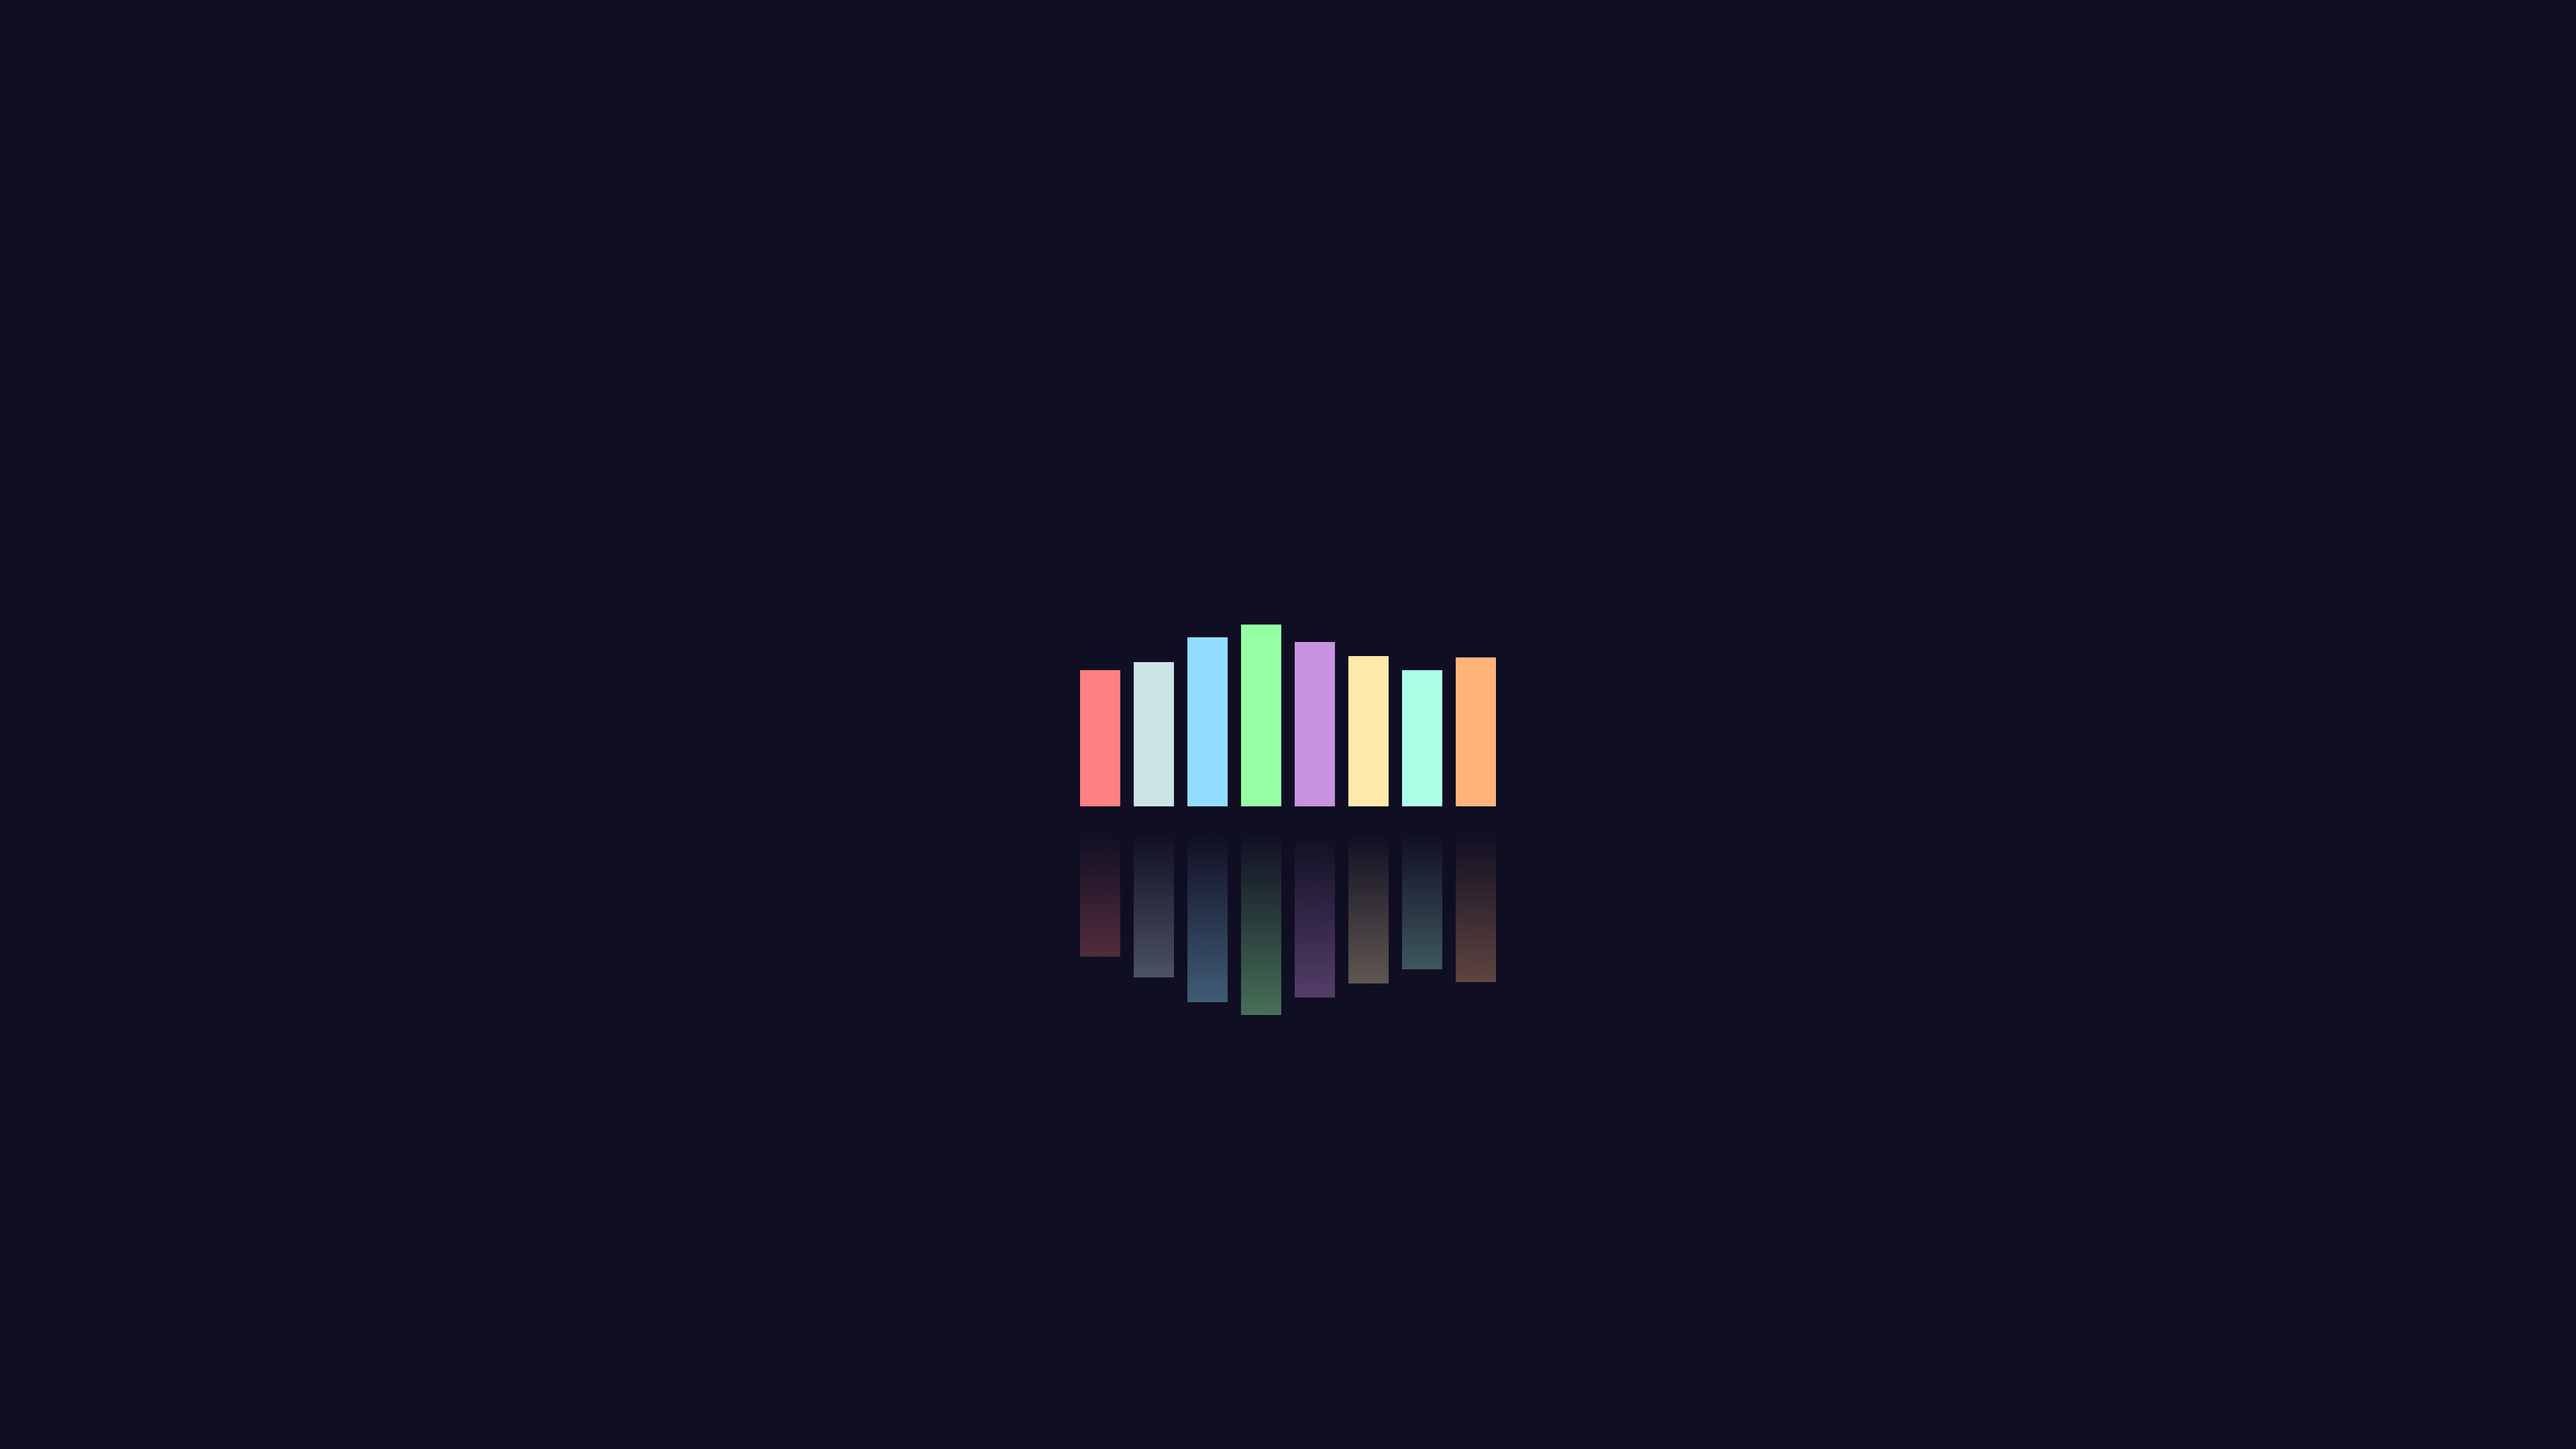
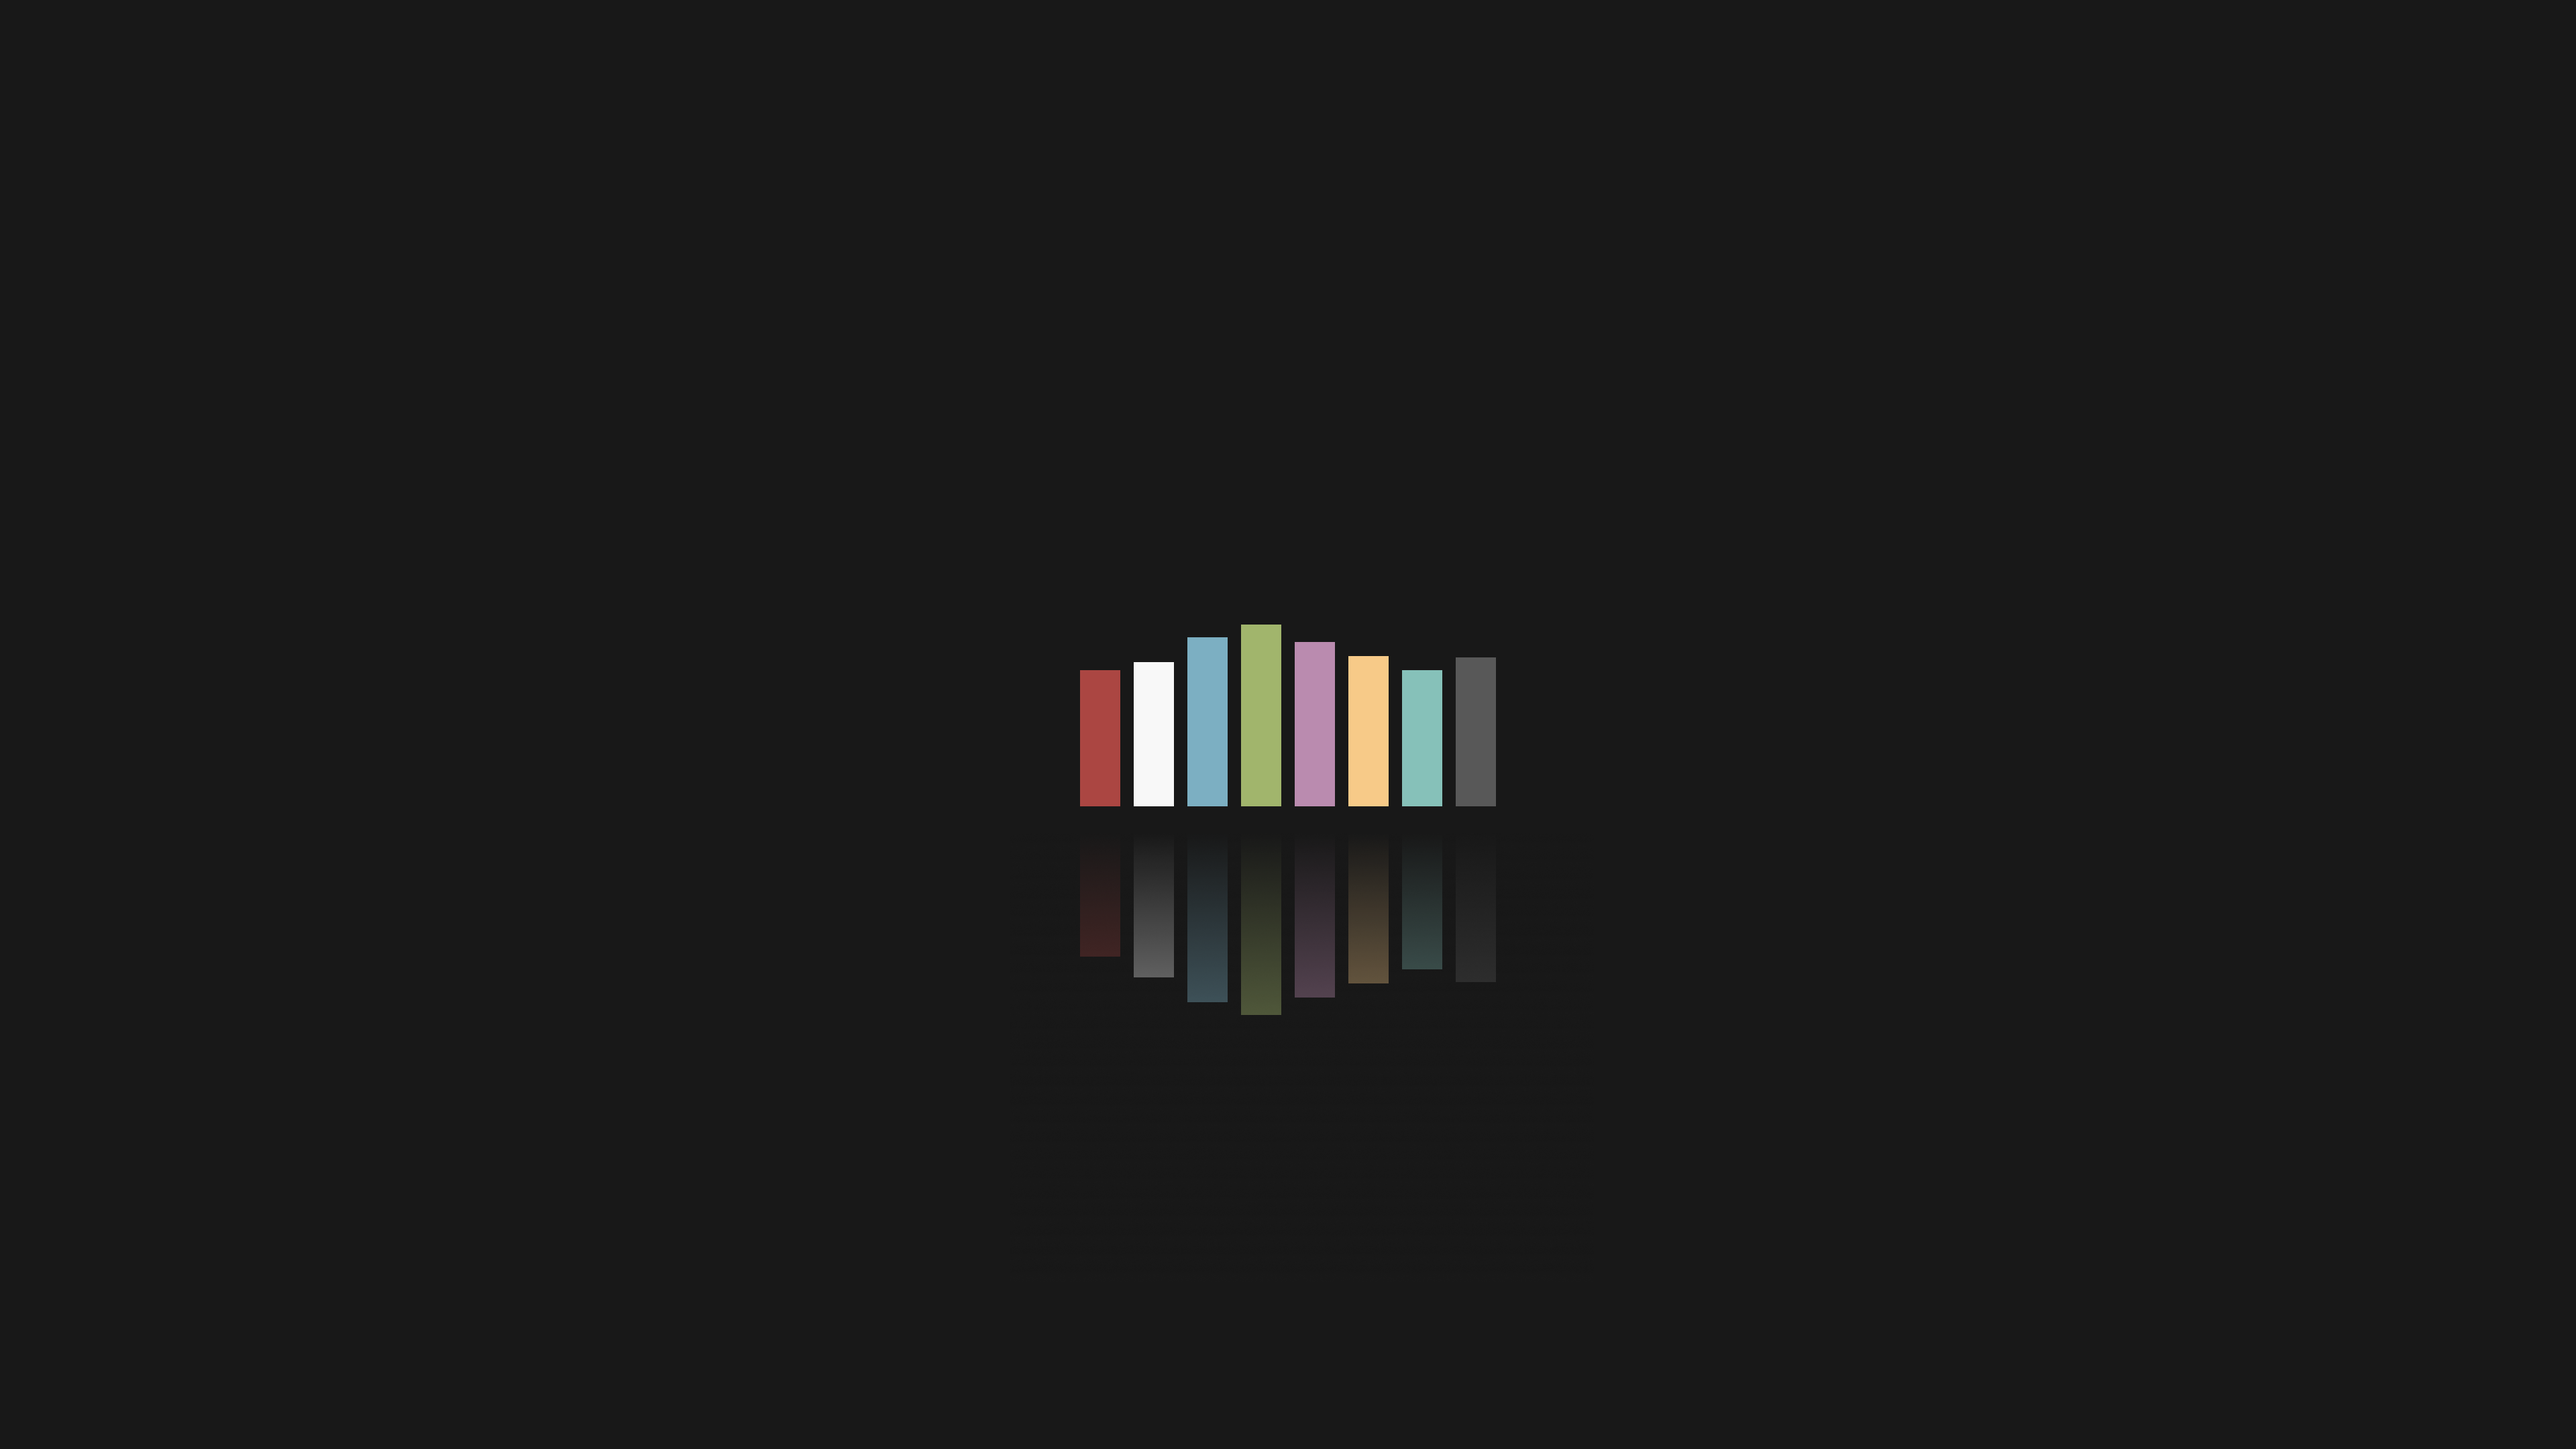
feat: refactor to base16 color, update font, add gtk theme

Changed region(s): [[0.4062, 0.4343, 0.5938, 0.5583], [0.4375, 0.6514, 0.5, 0.7134], [0.5625, 0.6204, 0.5938, 0.6824]]

diff --git a/config/gtk/theme/gtk2.css b/config/gtk/theme/gtk2.css
@@ -1,0 +1,81 @@
+# Default scheme
+# by Chris Kempson (http://chriskempson.com)
+#
+# GTK 3.0 template 
+# by Jonn Mostovoy - https://github.com/manpages
+#
+# Generated
+#  by base16-builder - https://github.com/base16-builder/base16-builder
+
+style "default"
+{
+  engine "hcengine" {
+    edge_thickness = 2
+  }
+
+  xthickness = 2
+  ythickness = 2
+
+  EelEditableLabel::cursor_aspect_ratio = 0.1
+  EelEditableLabel::cursor_color    = "#7cafc2"
+
+  GtkEntry::cursor_color    = "#7cafc2"
+  GtkEntry::cursor_aspect_ratio = 0.1
+
+  GtkHSV::focus-line-pattern = "\0"
+
+  GtkRange::stepper-size = 20
+
+  GtkTextView::cursor_aspect_ratio = 0.1
+  GtkTextView::cursor_color    = "#7cafc2"
+
+  GtkTreeView::expander-size = 16
+
+  GtkWidget::focus-line-pattern = "\4\2"
+  GtkWidget::focus-line-width = 2
+  GtkWidget::focus-padding = 0
+  GtkWidget::interior_focus = 1
+  GtkWidget::link-color = "#7cafc2"
+  GtkWidget::visited-link-color = "#ba8baf"
+
+  # Nautilus
+  NautilusIconContainer::frame_text = 1
+
+  # Pidgin
+  GtkIMHtml::hyperlink-color = "#7cafc2"
+  GtkIMHtml::hyperlink-visited-color = "#ba8baf"
+  GtkIMHtml::hyperlink-prelight-color = "#f8f8f8"
+
+  # Evolution
+  GtkHTML::link_color = "#7cafc2"
+  GtkHTML::vlink_color = "#ba8baf"
+  GtkHTML::cite_color = "#f8f8f8"
+
+  fg[NORMAL]      = "#b8b8b8"
+  text[NORMAL]    = "#b8b8b8"
+  bg[NORMAL]      = "#181818"
+  base[NORMAL]    = "#181818"
+
+  fg[INSENSITIVE]      = "#b8b8b8"
+  bg[INSENSITIVE]      = "#282828"
+  text[INSENSITIVE]    = "#b8b8b8"
+  base[INSENSITIVE]    = "#282828"
+
+  fg[PRELIGHT]    = "#181818"
+  text[PRELIGHT]  = "#181818"
+  bg[PRELIGHT]    = "#b8b8b8"
+  base[PRELIGHT]  = "#b8b8b8"
+
+  fg[ACTIVE]      = "#d8d8d8"
+  text[ACTIVE]    = "#d8d8d8"
+  bg[ACTIVE]      = "#383838"
+  base[ACTIVE]    = "#383838"
+
+  fg[SELECTED]    = "#181818"
+  text[SELECTED]  = "#181818"
+  bg[SELECTED]    = "#b8b8b8"
+  base[SELECTED]  = "#f8f8f8"
+}
+
+class "GtkWidget" style "default"
+

diff --git a/config/gtk/theme/gtk3.css b/config/gtk/theme/gtk3.css
@@ -1,0 +1,42 @@
+/*
+ * Default scheme
+ * by Chris Kempson (http://chriskempson.com)
+ *
+ * GTK 3.0 template 
+ * by Jonn Mostovoy - https://github.com/manpages
+ *
+ * Generated
+ * by base16-builder - https://github.com/base16-builder/base16-builder
+ */
+
+@define-color theme_base_color #181818;
+@define-color theme_fg_color #b8b8b8;
+@define-color theme_active_color #383838;
+@define-color theme_insensitive_color #b8b8b8;
+@define-color theme_insensitive_bg #181818;
+
+@define-color theme_cursor_color #7cafc2;
+
+/* fallback mode */
+@define-color os_chrome_bg_color #181818;
+@define-color os_chrome_fg_color #b8b8b8;
+@define-color os_chrome_selected_bg_color #e8e8e8;
+@define-color os_chrome_selected_fg_color #383838;
+
+* {
+    /* Pidgin */
+    -GtkIMHtml-hyperlink-color: #7cafc2;
+    -GtkIMHtml-hyperlink-visited-color: #ba8baf;
+    -GtkIMHtml-hyperlink-prelight-color: #f8f8f8;
+
+    /* Evolution */
+    -GtkHTML-link-color: #7cafc2;
+    -GtkHTML-vlink-color: #ba8baf;
+    -GtkHTML-cite-color: #a1b56c;
+
+    -GtkWidget-link-color: #7cafc2;
+    -GtkWidget-visited-link-color: #ba8baf;
+}
+
+@import url("resource:///org/gnome/HighContrastInverse/a11y.css");
+
